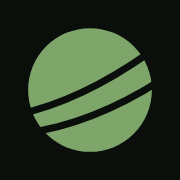
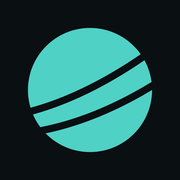
UI: Aurora teal palette in place of the forest green
Cool blue-green-grey neutrals with a teal accent for both themes, mapped onto the same tokens. Light mode deepens
the brand teal #0f8b8d to #0b7577 so white button text (5.5:1) and links on elevated surfaces (4.9:1) pass AA;
dark mode keeps #4fd1c5 with #0a0f12 text on fills (10.3:1). --text-faint is AA on every surface, accent text on
the soft accent uses --accent-on-soft. Success is a true green and info moves to blue so neither reads as the
accent; chart series start with the teal. The mark, favicons (svg/ico/apple-touch), theme-color, the terminal
fallbacks, the mail theme and logo, and docs/UI_DESIGN.md §2 follow.

diff --git a/control-plane/resources/css/app.css b/control-plane/resources/css/app.css
@@ -21,123 +21,130 @@
 .dark {
     color-scheme: dark;
 
-    --bg: #0b0f0c;
-    --bg-canvas: #0d120e;
-    --grid: #1e2820;
-    --surface-1: #111713;
-    --surface-2: #17201a;
-    --surface-3: #1e2921;
-    --border: #243128;
-    --border-strong: #324236;
-    --text: #f2f5f2;
-    --text-muted: #a7b0a9;
-    --text-faint: #6e786f;
-    /* Text on the light-ish accent / success fills of the dark theme: dark, for WCAG AA (6.9:1 on --accent). */
-    --text-on-accent: #0b0f0c;
+    /* Aurora teal: cool blue-green-grey neutrals, teal accent. */
+    --bg: #0a0f12;
+    --bg-canvas: #0c1215;
+    --grid: #1c272d;
+    --surface-1: #10171b;
+    --surface-2: #162026;
+    --surface-3: #1d2a31;
+    --border: #22313a;
+    --border-strong: #304450;
+    --text: #eef4f5;
+    --text-muted: #9fb0b5;
+    /* Tertiary text: AA (>= 4.5:1) on every surface up to --surface-3. */
+    --text-faint: #8597a0;
+    /* Text on the light accent / success fills of the dark theme: dark, for WCAG AA (10.3:1 on --accent). */
+    --text-on-accent: #0a0f12;
     /* Text on --danger fills. */
     --text-on-danger: #ffffff;
 
-    --accent: #7fa66a;
-    --accent-hover: #93b87e;
-    --accent-soft: #1b2a1d;
+    --accent: #4fd1c5;
+    --accent-hover: #76e0d6;
+    --accent-soft: #10302f;
     /* Accent-colored text on --accent-soft (tags, selected chips). */
-    --accent-on-soft: #93b87e;
-    --selection: rgba(127, 166, 106, 0.3);
+    --accent-on-soft: #76e0d6;
+    --selection: rgba(79, 209, 197, 0.28);
 
-    --success: #5dbe7a;
-    --success-soft: rgba(93, 190, 122, 0.14);
+    /* Status: a true green (not the teal accent) and a blue info. */
+    --success: #5ccb5f;
+    --success-soft: rgba(92, 203, 95, 0.14);
     --warning: #f59e0b;
     --warning-soft: rgba(245, 158, 11, 0.14);
     --danger: #ef4444;
     --danger-soft: rgba(239, 68, 68, 0.14);
-    --info: #38bdf8;
-    --info-soft: rgba(56, 189, 248, 0.14);
-    --faint-soft: rgba(110, 120, 111, 0.16);
+    --info: #60a5fa;
+    --info-soft: rgba(96, 165, 250, 0.14);
+    /* Decorative grey (#66767d) for soft neutral fills; not for text. */
+    --faint-soft: rgba(102, 118, 125, 0.18);
 
-    --overlay: rgba(4, 6, 5, 0.64);
+    --overlay: rgba(3, 6, 8, 0.64);
     --elevation-panel: 0 8px 32px rgba(0, 0, 0, 0.45);
     /* Floating panels over the canvas: a hairline ring plus a soft, wide shadow. */
     --elevation-float: 0 0 0 1px rgba(255, 255, 255, 0.02), 0 24px 64px -12px rgba(0, 0, 0, 0.6), 0 8px 24px -8px rgba(0, 0, 0, 0.5);
     /* Veil over a panel that recedes under a stacked one. */
-    --panel-dim: rgba(4, 6, 5, 0.45);
+    --panel-dim: rgba(3, 6, 8, 0.45);
     /* Canvas groups: a tinted, translucent frame. */
     --group-bg: rgba(255, 255, 255, 0.025);
     --group-border: rgba(255, 255, 255, 0.07);
 
-    /* Chart series (MetricChart), fixed order: brand green first, then hues far from it (no second green). */
-    --chart-1: #7fa66a;
+    /* Chart series (MetricChart), fixed order: the teal accent first, then hues far from it (no second teal). */
+    --chart-1: #4fd1c5;
     --chart-2: #d95926;
     --chart-3: #8b5cf6;
     --chart-4: #3987e5;
     --chart-5: #d55181;
 
     /* ANSI palette for LogViewer. */
-    --ansi-black: #2f3a32;
+    --ansi-black: #26343c;
     --ansi-red: #f87171;
     --ansi-green: #4ade80;
     --ansi-yellow: #fbbf24;
     --ansi-blue: #60a5fa;
     --ansi-magenta: #c084fc;
     --ansi-cyan: #22d3ee;
-    --ansi-white: #e4e9e4;
-    --ansi-bright-black: #6e786f;
+    --ansi-white: #dce6e8;
+    --ansi-bright-black: #8597a0;
 }
 
 .light {
     color-scheme: light;
 
-    --bg: #f4f7f3;
-    --bg-canvas: #f0f4ef;
-    --grid: #d8e0d7;
+    --bg: #f5f9fa;
+    --bg-canvas: #f0f6f7;
+    --grid: #d5e2e5;
     --surface-1: #ffffff;
-    --surface-2: #edf2ec;
-    --surface-3: #e4ebe3;
-    --border: #d8e0d7;
-    --border-strong: #c3cec2;
-    --text: #172019;
-    --text-muted: #5f6d62;
-    --text-faint: #8a968c;
+    --surface-2: #ecf3f4;
+    --surface-3: #e4eef0;
+    --border: #d5e2e5;
+    --border-strong: #bccdd2;
+    --text: #13202a;
+    --text-muted: #556670;
+    /* Tertiary text: AA (>= 4.5:1) on every surface up to --surface-3. */
+    --text-faint: #5b6c75;
     --text-on-accent: #ffffff;
     --text-on-danger: #ffffff;
 
-    --accent: #4f7a5a;
-    --accent-hover: #3f674a;
-    --accent-soft: #e1eae0;
-    --accent-on-soft: #3f674a;
-    --selection: rgba(79, 122, 90, 0.24);
+    /* The brand teal #0f8b8d deepened for AA: white on it 5.5:1, and as link text on --surface-2 4.9:1. */
+    --accent: #0b7577;
+    --accent-hover: #0a6668;
+    --accent-soft: #ddf0ef;
+    --accent-on-soft: #0a6668;
+    --selection: rgba(15, 139, 141, 0.22);
 
-    --success: #22863a;
-    --success-soft: rgba(34, 134, 58, 0.12);
+    --success: #1f7a35;
+    --success-soft: rgba(31, 122, 53, 0.12);
     --warning: #d97706;
     --warning-soft: rgba(245, 158, 11, 0.16);
     --danger: #dc2626;
     --danger-soft: rgba(239, 68, 68, 0.12);
-    --info: #0284c7;
-    --info-soft: rgba(56, 189, 248, 0.16);
-    --faint-soft: rgba(138, 150, 140, 0.16);
+    --info: #2563eb;
+    --info-soft: rgba(37, 99, 235, 0.12);
+    /* Decorative grey (#8a9aa2) for soft neutral fills; not for text. */
+    --faint-soft: rgba(138, 154, 162, 0.18);
 
-    --overlay: rgba(23, 32, 25, 0.28);
-    --elevation-panel: 0 8px 24px rgba(16, 28, 20, 0.08);
-    --elevation-float: 0 0 0 1px rgba(16, 28, 20, 0.02), 0 24px 56px -16px rgba(16, 28, 20, 0.16), 0 6px 16px -6px rgba(16, 28, 20, 0.08);
-    --panel-dim: rgba(240, 244, 239, 0.55);
-    --group-bg: rgba(23, 32, 25, 0.028);
-    --group-border: rgba(23, 32, 25, 0.08);
+    --overlay: rgba(19, 32, 42, 0.28);
+    --elevation-panel: 0 8px 24px rgba(12, 28, 38, 0.08);
+    --elevation-float: 0 0 0 1px rgba(12, 28, 38, 0.02), 0 24px 56px -16px rgba(12, 28, 38, 0.16), 0 6px 16px -6px rgba(12, 28, 38, 0.08);
+    --panel-dim: rgba(240, 246, 247, 0.55);
+    --group-bg: rgba(19, 32, 42, 0.028);
+    --group-border: rgba(19, 32, 42, 0.08);
 
-    --chart-1: #4f7a5a;
+    --chart-1: #0b7577;
     --chart-2: #eb6834;
     --chart-3: #7c3aed;
     --chart-4: #2a78d6;
     --chart-5: #e87ba4;
 
-    --ansi-black: #172019;
+    --ansi-black: #13202a;
     --ansi-red: #dc2626;
     --ansi-green: #15803d;
     --ansi-yellow: #a16207;
     --ansi-blue: #1d4ed8;
     --ansi-magenta: #7e22ce;
     --ansi-cyan: #0e7490;
-    --ansi-white: #5f6d62;
-    --ansi-bright-black: #8a968c;
+    --ansi-white: #556670;
+    --ansi-bright-black: #5b6c75;
 }
 
 @theme {
@@ -195,7 +202,7 @@
     --color-group: var(--group-bg);
     --color-group-border: var(--group-border);
 
-    /* `primary` IS the Falak accent (brand green). */
+    /* `primary` IS the Falak accent (Aurora teal). */
     --color-primary: var(--accent);
     --color-primary-hover: var(--accent-hover);
     --color-primary-soft: var(--accent-soft);
@@ -221,7 +228,7 @@
     /*
      * Legacy aliases for the pre-redesign pages (components/ui/*, module pages) so they render in the Falak palette
      * until each is rebuilt. New code uses the Falak names above. Note `accent` here is the legacy *hover surface*,
-     * not the green accent (that is `primary`).
+     * not the teal accent (that is `primary`).
      */
     --color-background: var(--bg);
     --color-foreground: var(--text);

diff --git a/control-plane/modules/Terminal/resources/js/lib.ts b/control-plane/modules/Terminal/resources/js/lib.ts
@@ -83,14 +83,14 @@ export function terminalTheme(): Record<string, string> {
     if (typeof window === 'undefined') return {};
     const styles = getComputedStyle(document.documentElement);
     const token = (name: string, fallback: string) => styles.getPropertyValue(name).trim() || fallback;
-    const ansi = (name: string) => token(`--ansi-${name}`, token('--text', '#f2f5f2'));
+    const ansi = (name: string) => token(`--ansi-${name}`, token('--text', '#eef4f5'));
 
     return {
-        background: token('--bg-canvas', '#0d120e'),
-        foreground: token('--text', '#f2f5f2'),
-        cursor: token('--accent', '#7fa66a'),
-        cursorAccent: token('--bg-canvas', '#0d120e'),
-        selectionBackground: token('--selection', 'rgba(127,166,106,.3)'),
+        background: token('--bg-canvas', '#0c1215'),
+        foreground: token('--text', '#eef4f5'),
+        cursor: token('--accent', '#4fd1c5'),
+        cursorAccent: token('--bg-canvas', '#0c1215'),
+        selectionBackground: token('--selection', 'rgba(79,209,197,.28)'),
         black: ansi('black'),
         red: ansi('red'),
         green: ansi('green'),
@@ -106,7 +106,7 @@ export function terminalTheme(): Record<string, string> {
         brightBlue: ansi('blue'),
         brightMagenta: ansi('magenta'),
         brightCyan: ansi('cyan'),
-        brightWhite: token('--text', '#f2f5f2'),
+        brightWhite: token('--text', '#eef4f5'),
     };
 }
 

diff --git a/control-plane/resources/js/components/falak/logo.tsx b/control-plane/resources/js/components/falak/logo.tsx
@@ -5,7 +5,7 @@ import { useId } from 'react';
 const ORBITS = ['M-345 117Q-43 52 285-180', 'M-307 206Q7 164 335-44'];
 
 /**
- * Falak mark: a sphere with two orbit bands, in the brand green (`currentColor`, `text-primary` by default). Small
+ * Falak mark: a sphere with two orbit bands, in the teal accent (`currentColor`, `text-primary` by default). Small
  * renderings (≤ 20px) use the thicker band so the gaps survive. The mask id is unique per instance.
  */
 export function FalakMark({ className, size = 20 }: { className?: string; size?: number }) {

diff --git a/control-plane/resources/views/app.blade.php b/control-plane/resources/views/app.blade.php
@@ -11,10 +11,10 @@
         <meta name="csrf-token" content="{{ csrf_token() }}">
         <meta name="color-scheme" content="dark light">
         @if ($appearance === 'system')
-            <meta name="theme-color" content="#F4F7F3" media="(prefers-color-scheme: light)">
-            <meta name="theme-color" content="#0B0F0C" media="(prefers-color-scheme: dark)">
+            <meta name="theme-color" content="#F5F9FA" media="(prefers-color-scheme: light)">
+            <meta name="theme-color" content="#0A0F12" media="(prefers-color-scheme: dark)">
         @else
-            <meta name="theme-color" content="{{ $appearance === 'light' ? '#F4F7F3' : '#0B0F0C' }}">
+            <meta name="theme-color" content="{{ $appearance === 'light' ? '#F5F9FA' : '#0A0F12' }}">
         @endif
         <link rel="icon" href="/favicon.ico" sizes="48x48">
         <link rel="icon" href="/favicon.svg" type="image/svg+xml">

diff --git a/docs/UI_DESIGN.md b/docs/UI_DESIGN.md
@@ -28,38 +28,43 @@ Goal: replace the stock shadcn look with a Railway-grade product. Dark-first (pl
 Defined once in `resources/css/app.css` as CSS variables, mapped into Tailwind 4 `@theme`. **No hard-coded colors
 in components.**
 
-### Color — dark (default)
-| Token | Value | Use |
-|---|---|---|
-| `--bg` | `#0b0f0c` | app background |
-| `--bg-canvas` | `#0d120e` | canvas (dotted grid `--grid` `#1e2820`, 1px dots every 20px) |
-| `--surface-1` | `#111713` | panels, cards |
-| `--surface-2` | `#17201a` | hover, inputs, nested (elevated) |
-| `--surface-3` | `#1e2921` | active, selected |
-| `--border` | `#243128` | hairlines (1px) |
-| `--border-strong` | `#324236` | focused inputs, selected cards |
-| `--text` | `#f2f5f2` | primary text |
-| `--text-muted` | `#a7b0a9` | secondary |
-| `--text-faint` | `#6e786f` | tertiary, placeholders |
-| `--accent` | `#7fa66a` | primary buttons, focus ring, links (brand green) |
-| `--accent-hover` | `#93b87e` | |
-| `--accent-soft` | `#1b2a1d` | selected nav, soft badges (`--accent-on-soft` `#93b87e` for text on it) |
-| `--text-on-accent` | `#0b0f0c` | text on accent / success fills (dark: AA on the light green) |
-| `--text-on-danger` | `#ffffff` | text on danger fills |
-| `--selection` | `rgba(127,166,106,.3)` | text selection, terminal selection |
-| `--success` | `#5dbe7a` · soft `rgba(93,190,122,.14)` | active/healthy |
-| `--warning` | `#f59e0b` · soft | building/deploying/degraded |
-| `--danger` | `#ef4444` · soft | failed/crashed/offline |
-| `--info` | `#38bdf8` · soft | queued/informational |
+### Color — "Aurora teal"
+Cool blue-green-grey neutrals with a teal accent. Text pairs meet WCAG AA (≥ 4.5:1); the brand teal `#0f8b8d` is
+deepened in light mode so white button text and links pass.
 
-### Color — light
-`--bg #f4f7f3`, `--bg-canvas #f0f4ef` (grid `#d8e0d7`), `--surface-1 #ffffff`, `--surface-2 #edf2ec`,
-`--surface-3 #e4ebe3`, `--border #d8e0d7`, `--border-strong #c3cec2`, `--text #172019`, `--text-muted #5f6d62`,
-`--text-faint #8a968c`, `--accent #4f7a5a` (hover `#3f674a`, soft `#e1eae0`, on-soft `#3f674a`),
-`--text-on-accent #ffffff`, `--success #22863a`; warning/danger/info as dark with darker shades for contrast.
+| Token | Dark (default) | Light | Use |
+|---|---|---|---|
+| `--bg` | `#0a0f12` | `#f5f9fa` | app background |
+| `--bg-canvas` | `#0c1215` | `#f0f6f7` | canvas (dotted grid `--grid`, 1px dots every 20px) |
+| `--grid` | `#1c272d` | `#d5e2e5` | canvas dots |
+| `--surface-1` | `#10171b` | `#ffffff` | panels, cards |
+| `--surface-2` | `#162026` | `#ecf3f4` | hover, inputs, nested (elevated) |
+| `--surface-3` | `#1d2a31` | `#e4eef0` | active, selected |
+| `--border` | `#22313a` | `#d5e2e5` | hairlines (1px) |
+| `--border-strong` | `#304450` | `#bccdd2` | focused inputs, selected cards |
+| `--text` | `#eef4f5` | `#13202a` | primary text |
+| `--text-muted` | `#9fb0b5` | `#556670` | secondary |
+| `--text-faint` | `#8597a0` | `#5b6c75` | tertiary, placeholders (AA up to `--surface-3`) |
+| decorative grey | `#66767d` | `#8a9aa2` | `--faint-soft` fills only, never text |
+| `--accent` | `#4fd1c5` | `#0b7577` | primary buttons, focus ring, links (teal) |
+| `--accent-hover` | `#76e0d6` | `#0a6668` | |
+| `--accent-soft` | `#10302f` | `#ddf0ef` | selected nav, soft badges |
+| `--accent-on-soft` | `#76e0d6` | `#0a6668` | accent text on `--accent-soft` |
+| `--text-on-accent` | `#0a0f12` | `#ffffff` | text on accent / success fills |
+| `--text-on-danger` | `#ffffff` | `#ffffff` | text on danger fills |
+| `--selection` | `rgba(79,209,197,.28)` | `rgba(15,139,141,.22)` | text selection, terminal selection |
+| `--success` | `#5ccb5f` | `#1f7a35` | active/healthy — a true green, clearly apart from the teal |
+| `--warning` | `#f59e0b` | `#d97706` | building/deploying/degraded |
+| `--danger` | `#ef4444` | `#dc2626` | failed/crashed/offline |
+| `--info` | `#60a5fa` | `#2563eb` | queued/informational — blue, so it never reads as the accent |
 
-Brand core: `#0b0f0c` + `#4f7a5a` + `#f2f5f2`. The mark (`FalakMark`, `public/favicon.svg`) is a sphere with two
-orbit bands, always in the accent green next to the "Falak" wordmark in `--text`; at ≤ 20px the bands are thicker.
+Each status has a `-soft` translucent fill of the same hue. Key contrasts: dark accent fill with `#0a0f12` text
+10.3:1, accent link on `--surface-2` 8.9:1, on-soft 9.0:1; light accent fill with white text 5.5:1, accent link on
+`--surface-2` 4.9:1, on-soft 5.7:1. Chart series (`--chart-1..5`): teal accent, orange, violet, blue, pink.
+
+Brand core: `#0a0f12` + `#0f8b8d` / `#4fd1c5` + `#eef4f5`. The mark (`FalakMark`, `public/favicon.svg`) is a sphere
+with two orbit bands, always in the accent teal next to the "Falak" wordmark in `--text`; at ≤ 20px the bands are
+thicker. Favicons: `#0b7577` (light) / `#4fd1c5` (dark); `apple-touch-icon.png` is the dark mark on `#0a0f12`.
 
 ### Type
 - UI: **Inter** (variable, `@fontsource-variable/inter`), code/logs/ids: **JetBrains Mono**
